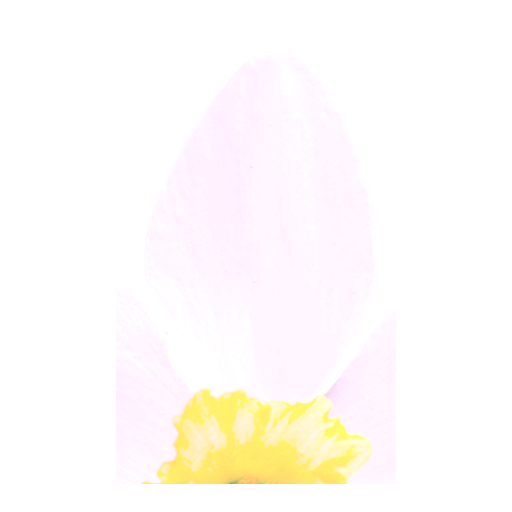
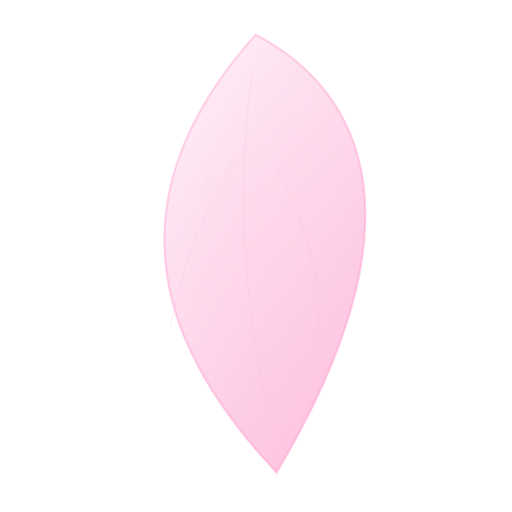
fix: refine seasonal vfx quality

diff --git a/components/HomeEffects.tsx b/components/HomeEffects.tsx
@@ -29,7 +29,7 @@ type SeasonalSpriteKey = 'petal' | 'firefly' | 'leafA' | 'leafB' | 'leafC' | 'sn
 type SeasonalSpriteMap = Partial<Record<SeasonalSpriteKey, HTMLImageElement>>;
 
 type SeasonalVfxParticle = {
-  kind: 'petal' | 'firefly' | 'leaf' | 'snow';
+  kind: 'petal' | 'firefly' | 'bug' | 'leaf' | 'snow';
   x: number;
   y: number;
   vx: number;
@@ -440,6 +440,19 @@ export function HomeEffects({ site, posts, notes, activeTrack }: HomeEffectsProp
         return;
       }
 
+      if (season === 'summer' && sceneMode === 'day') {
+        particle.kind = 'bug';
+        particle.sprite = 'firefly';
+        particle.size = randomBetween(5, 10) * particle.depth;
+        particle.x = randomBetween(width * 0.03, width * 0.98);
+        particle.y = initial ? randomBetween(height * 0.18, height * 0.8) : randomBetween(height * 0.22, height * 0.72);
+        particle.vx = randomBetween(-16, 18);
+        particle.vy = randomBetween(-10, 8);
+        particle.spin = randomBetween(-0.4, 0.4);
+        particle.alpha = randomBetween(0.18, 0.34);
+        return;
+      }
+
       if (season === 'autumn') {
         particle.kind = 'leaf';
         particle.sprite = chooseLeafSprite();
@@ -466,7 +479,7 @@ export function HomeEffects({ site, posts, notes, activeTrack }: HomeEffectsProp
 
     const targetCount = () => {
       if (season === 'summer' && !nightMode) {
-        return 0;
+        return Math.max(10, Math.round(intensity / 6));
       }
       if (season === 'spring' && nightMode) {
         return Math.max(14, Math.round(intensity / 4.4));
@@ -503,7 +516,7 @@ export function HomeEffects({ site, posts, notes, activeTrack }: HomeEffectsProp
       }
       particles.forEach((particle) => {
         if (
-          (season === 'summer' && !nightMode)
+          (season === 'summer' && !nightMode && particle.kind !== 'bug')
           || (season === 'spring' && nightMode && particle.kind !== 'firefly')
           || (season === 'spring' && !nightMode && particle.kind !== 'petal')
           || (season === 'autumn' && particle.kind !== 'leaf')
@@ -516,7 +529,7 @@ export function HomeEffects({ site, posts, notes, activeTrack }: HomeEffectsProp
 
     const drawSprite = (particle: SeasonalVfxParticle, now: number) => {
       const image = sprites[particle.sprite];
-      if (!image) {
+      if (!image && particle.kind !== 'bug') {
         return;
       }
 
@@ -532,6 +545,28 @@ export function HomeEffects({ site, posts, notes, activeTrack }: HomeEffectsProp
       context.globalAlpha = Math.max(0, Math.min(0.9, alpha));
       context.translate(x, y);
       context.rotate(particle.rotation + Math.sin(now * 0.001 + particle.phase) * 0.38);
+      if (particle.kind === 'bug') {
+        const wingBeat = 0.55 + Math.sin(now * 0.017 + particle.phase) * 0.25;
+        context.globalAlpha = Math.max(0.08, particle.alpha * (0.68 + wingBeat * 0.28));
+        context.globalCompositeOperation = 'screen';
+        context.shadowColor = 'rgba(255, 238, 166, 0.22)';
+        context.shadowBlur = size * 1.1;
+        context.fillStyle = 'rgba(31, 44, 30, 0.42)';
+        context.beginPath();
+        context.ellipse(0, 0, size * 0.18, size * 0.38, 0, 0, Math.PI * 2);
+        context.fill();
+        context.fillStyle = 'rgba(255, 245, 170, 0.34)';
+        context.beginPath();
+        context.ellipse(-size * 0.26, -size * 0.08, size * 0.34, size * 0.12 * wingBeat, -0.42, 0, Math.PI * 2);
+        context.ellipse(size * 0.26, -size * 0.08, size * 0.34, size * 0.12 * wingBeat, 0.42, 0, Math.PI * 2);
+        context.fill();
+        context.restore();
+        return;
+      }
+      if (!image) {
+        context.restore();
+        return;
+      }
       if (particle.kind === 'firefly') {
         context.shadowColor = 'rgba(255, 236, 116, 0.72)';
         context.shadowBlur = size * 1.6;
@@ -548,12 +583,16 @@ export function HomeEffects({ site, posts, notes, activeTrack }: HomeEffectsProp
     };
 
     const easeOut = (value: number) => 1 - Math.pow(1 - Math.max(0, Math.min(1, value)), 3);
+    const seededUnit = (seed: number) => {
+      const value = Math.sin(seed * 12.9898) * 43758.5453;
+      return value - Math.floor(value);
+    };
 
     const drawGrassBlade = (x: number, baseY: number, length: number, lean: number, color: string, alpha: number) => {
       context.save();
       context.globalAlpha = alpha;
       context.strokeStyle = color;
-      context.lineWidth = Math.max(0.7, length * 0.035);
+      context.lineWidth = Math.max(0.9, length * 0.045);
       context.lineCap = 'round';
       context.beginPath();
       context.moveTo(x, baseY);
@@ -571,30 +610,86 @@ export function HomeEffects({ site, posts, notes, activeTrack }: HomeEffectsProp
       context.fillRect(0, top, width, height - top);
     };
 
-    const drawSpringGround = (growth: number, now: number, summerFlowers = false) => {
+    const drawPetalAccumulation = (growth: number, now: number, windAway = 0) => {
+      const level = Math.max(0, growth * (1 - windAway));
+      const pileHeight = Math.min(38, Math.max(20, height * 0.036)) * level;
+      if (pileHeight < 2) {
+        return;
+      }
+      const top = height - pileHeight;
+      context.save();
+      const drift = windAway * width * 0.56;
+      const fade = 1 - windAway;
+      const gradient = context.createLinearGradient(0, top - 14, 0, height);
+      gradient.addColorStop(0, 'rgba(255, 214, 234, 0)');
+      gradient.addColorStop(0.42, `rgba(255, 188, 222, ${0.2 * fade})`);
+      gradient.addColorStop(1, `rgba(255, 229, 242, ${0.38 * fade})`);
+      context.fillStyle = gradient;
+      context.fillRect(0, top - 14, width, pileHeight + 18);
+
+      context.beginPath();
+      context.moveTo(0, height);
+      context.lineTo(0, top + Math.sin(now * 0.0005) * 1.4);
+      for (let x = 0; x <= width + 60; x += 60) {
+        const ridge = Math.sin(x * 0.018 + now * 0.00035) * 2.2 + Math.sin(x * 0.047) * 1.2;
+        context.quadraticCurveTo(x + 30, top - 3 + ridge, x + 60, top + ridge * 0.5);
+      }
+      context.lineTo(width, height);
+      context.closePath();
+      context.fillStyle = `rgba(255, 211, 232, ${0.16 * fade})`;
+      context.fill();
+
+      const petal = sprites.petal;
+      if (petal) {
+        context.filter = 'saturate(0.98) brightness(1.04)';
+        for (let index = 0; index < 86; index += 1) {
+          const frac = seededUnit(index + 9.7);
+          const lane = seededUnit(index + 31.4);
+          const x = ((index * 57 + frac * 170 + drift) % (width + 160)) - 80;
+          const wave = Math.sin(now * 0.0012 + index) * windAway * (16 + frac * 18);
+          const y = height - (Math.pow(lane, 1.45) * pileHeight * 0.92 + 2) - windAway * (10 + frac * 36);
+          const size = (6 + frac * 8) * (0.88 + level * 0.22);
+          context.save();
+          context.globalAlpha = (0.12 + frac * 0.16) * fade;
+          context.translate(x, y + wave);
+          context.rotate(frac * Math.PI * 2 + windAway * (1.2 + frac));
+          context.drawImage(petal, -size / 2, -size / 2, size, size);
+          context.restore();
+        }
+      }
+      context.restore();
+    };
+
+    const drawSpringGround = (growth: number, now: number, summerFlowers = false, dry = 0) => {
       const groundHeight = Math.min(46, Math.max(26, height * 0.042)) * growth;
       const top = height - groundHeight;
       context.save();
       drawSoftGroundGradient(top, [
         summerFlowers ? 'rgba(95, 178, 92, 0)' : 'rgba(126, 203, 122, 0)',
-        summerFlowers ? 'rgba(78, 158, 86, 0.16)' : 'rgba(93, 180, 96, 0.14)',
-        summerFlowers ? 'rgba(42, 112, 68, 0.34)' : 'rgba(54, 136, 74, 0.28)'
+        dry > 0.1 ? `rgba(159, 137, 64, ${0.16 * (1 - dry * 0.45)})` : (summerFlowers ? 'rgba(78, 158, 86, 0.24)' : 'rgba(93, 180, 96, 0.18)'),
+        dry > 0.1 ? `rgba(94, 83, 44, ${0.3 * (1 - dry * 0.55)})` : (summerFlowers ? 'rgba(42, 112, 68, 0.44)' : 'rgba(54, 136, 74, 0.34)')
       ]);
-      const step = Math.max(18, width / 96);
+      const haze = context.createLinearGradient(0, top - 12, 0, height);
+      haze.addColorStop(0, 'rgba(117, 205, 113, 0)');
+      haze.addColorStop(0.58, dry > 0.2 ? `rgba(168, 146, 62, ${0.08 * (1 - dry * 0.35)})` : (summerFlowers ? 'rgba(112, 214, 122, 0.12)' : 'rgba(142, 220, 132, 0.08)'));
+      haze.addColorStop(1, dry > 0.2 ? `rgba(105, 88, 36, ${0.16 * (1 - dry * 0.45)})` : (summerFlowers ? 'rgba(58, 144, 78, 0.22)' : 'rgba(79, 155, 84, 0.14)'));
+      context.fillStyle = haze;
+      context.fillRect(0, top - 12, width, groundHeight + 18);
+      const step = Math.max(12, width / 132);
       for (let x = -20; x < width + 20; x += step) {
-        const seed = Math.sin(x * 12.9898) * 43758.5453;
-        const frac = seed - Math.floor(seed);
+        const frac = seededUnit(x);
         const blade = (8 + frac * (summerFlowers ? 18 : 14)) * growth;
         const lean = Math.sin(now * 0.0011 + x * 0.02) * (summerFlowers ? 6 : 4);
-        const hue = summerFlowers ? 104 + frac * 36 : 96 + frac * 28;
-        drawGrassBlade(x, height + 3, blade, lean, `hsla(${hue}, 44%, ${summerFlowers ? 40 : 46}%, 0.44)`, 0.44);
-        if (summerFlowers && frac > 0.88) {
+        const hue = dry > 0 ? 82 - dry * 28 + frac * 18 : (summerFlowers ? 104 + frac * 36 : 96 + frac * 28);
+        const alpha = (summerFlowers ? 0.56 : 0.46) * (1 - dry * 0.66);
+        drawGrassBlade(x, height + 3, blade * (1 - dry * 0.22), lean, `hsla(${hue}, ${44 - dry * 16}%, ${summerFlowers ? 40 : 46}%, ${alpha})`, alpha);
+        if (summerFlowers && frac > 0.82 && dry < 0.9) {
           context.save();
-          context.globalAlpha = 0.26 * growth;
-          context.fillStyle = frac > 0.94 ? 'rgba(255, 214, 112, 0.58)' : 'rgba(255, 150, 205, 0.48)';
+          context.globalAlpha = (0.18 + frac * 0.18) * growth * (1 - dry);
+          context.fillStyle = frac > 0.93 ? 'rgba(255, 218, 116, 0.58)' : (frac > 0.88 ? 'rgba(164, 208, 255, 0.38)' : 'rgba(255, 154, 206, 0.44)');
           const flowerY = height - blade - 4;
           context.beginPath();
-          context.arc(x + lean, flowerY, 1.2 + frac * 1.4, 0, Math.PI * 2);
+          context.arc(x + lean, flowerY, 1 + frac * 1.6, 0, Math.PI * 2);
           context.fill();
           context.restore();
         }
@@ -603,20 +698,86 @@ export function HomeEffects({ site, posts, notes, activeTrack }: HomeEffectsProp
     };
 
     const drawLeafAccumulation = (growth: number) => {
-      const pileHeight = Math.min(44, Math.max(22, height * 0.04)) * growth;
+      const pileHeight = Math.min(48, Math.max(24, height * 0.046)) * growth;
       if (pileHeight < 4) {
         return;
       }
       context.save();
       drawSoftGroundGradient(height - pileHeight, [
         'rgba(224, 143, 45, 0)',
-        'rgba(186, 92, 38, 0.13)',
-        'rgba(82, 42, 24, 0.28)'
+        'rgba(190, 109, 36, 0.16)',
+        'rgba(88, 48, 22, 0.32)'
       ]);
       if (sprites.leafPile) {
-        context.globalAlpha = 0.18 * growth;
-        context.filter = nightMode ? 'saturate(0.56) brightness(0.46) blur(0.7px)' : 'saturate(0.72) brightness(0.66) blur(0.45px)';
-        context.drawImage(sprites.leafPile, 0, height - pileHeight * 1.12, width, pileHeight * 1.1);
+        context.globalAlpha = 0.2 * growth;
+        context.filter = nightMode ? 'saturate(0.62) brightness(0.5) blur(0.45px)' : 'saturate(0.84) brightness(0.76) blur(0.28px)';
+        context.drawImage(sprites.leafPile, 0, height - pileHeight * 1.08, width, pileHeight * 1.04);
+      }
+      const leafSprites: SeasonalSpriteKey[] = ['leafA', 'leafB', 'leafC'];
+      for (let index = 0; index < 64; index += 1) {
+        const frac = seededUnit(index + 17.2);
+        const sprite = sprites[leafSprites[index % leafSprites.length]];
+        if (!sprite) {
+          continue;
+        }
+        const x = (index * 71 + frac * 160) % (width + 120) - 60;
+        const y = height - Math.pow(seededUnit(index + 82.6), 1.25) * pileHeight * 0.88 - 3;
+        const size = 9 + frac * 12;
+        context.save();
+        context.globalAlpha = (0.1 + frac * 0.14) * growth;
+        context.filter = nightMode ? 'saturate(0.58) brightness(0.52)' : 'saturate(0.86) brightness(0.84)';
+        context.translate(x, y);
+        context.rotate(frac * Math.PI * 2);
+        context.drawImage(sprite, -size / 2, -size / 2, size, size);
+        context.restore();
+      }
+      context.restore();
+    };
+
+    const drawSweptPetals = (now: number, progress: number) => {
+      const petal = sprites.petal;
+      if (!petal) {
+        return;
+      }
+      const pulse = Math.sin(progress * Math.PI);
+      context.save();
+      context.filter = 'saturate(1.04) brightness(1.06)';
+      for (let index = 0; index < 42; index += 1) {
+        const frac = seededUnit(index + 44.8);
+        const y = height * (0.38 + seededUnit(index + 12.1) * 0.5) - progress * height * (0.08 + frac * 0.16);
+        const x = -80 + progress * (width + 190) + Math.sin(now * 0.002 + index) * (28 + frac * 42) - frac * width * 0.28;
+        const size = 7 + frac * 10;
+        context.save();
+        context.globalAlpha = pulse * (0.08 + frac * 0.18);
+        context.translate(x, y);
+        context.rotate(now * 0.0018 + frac * Math.PI * 4);
+        context.drawImage(petal, -size / 2, -size / 2, size, size);
+        context.restore();
+      }
+      context.restore();
+    };
+
+    const drawTransitionLeaves = (now: number, progress: number) => {
+      const leafSprites: SeasonalSpriteKey[] = ['leafA', 'leafB', 'leafC'];
+      const pulse = easeOut(progress);
+      context.save();
+      for (let index = 0; index < 48; index += 1) {
+        const sprite = sprites[leafSprites[index % leafSprites.length]];
+        if (!sprite) {
+          continue;
+        }
+        const frac = seededUnit(index + 72.3);
+        const start = seededUnit(index + 22.6) * width;
+        const x = start + Math.sin(now * 0.001 + index) * 34 + progress * width * (0.12 + frac * 0.18);
+        const y = -40 + progress * (height * 0.78) + seededUnit(index + 5.8) * height * 0.38;
+        const size = 13 + frac * 16;
+        context.save();
+        context.globalAlpha = Math.min(0.62, pulse * (0.18 + frac * 0.36));
+        context.filter = nightMode ? 'saturate(0.58) brightness(0.5)' : 'saturate(0.92) brightness(0.9)';
+        context.translate(x, y);
+        context.rotate(now * 0.0009 + frac * Math.PI * 3);
+        context.drawImage(sprite, -size / 2, -size / 2, size, size);
+        context.restore();
       }
       context.restore();
     };
@@ -660,9 +821,12 @@ export function HomeEffects({ site, posts, notes, activeTrack }: HomeEffectsProp
       const transitionGrowth = isSeasonTransitioning ? easeOut(transitionProgress) : growth;
 
       if (season === 'spring') {
-        drawSpringGround(growth, now);
+        const windAway = isSeasonTransitioning && nextSeason === 'summer' ? transitionGrowth : 0;
+        drawSpringGround(growth * 0.75, now, false, 0);
+        drawPetalAccumulation(growth, now, windAway);
       } else if (season === 'summer') {
-        drawSpringGround(growth, now, true);
+        const dry = isSeasonTransitioning && nextSeason === 'autumn' ? transitionGrowth : 0;
+        drawSpringGround(growth, now, true, dry);
       } else if (isAutumn) {
         drawLeafAccumulation(growth);
       } else if (isWinter) {
@@ -671,10 +835,16 @@ export function HomeEffects({ site, posts, notes, activeTrack }: HomeEffectsProp
 
       if (isSeasonTransitioning && nextSeason === 'spring') {
         drawSnowAccumulation(1, transitionGrowth);
-        drawSpringGround(transitionGrowth, now);
+        drawSpringGround(transitionGrowth * 0.72, now, false, 0);
+        drawPetalAccumulation(transitionGrowth, now);
       } else if (isSeasonTransitioning && nextSeason === 'summer') {
-        drawSpringGround(transitionGrowth, now, true);
+        drawSweptPetals(now, transitionGrowth);
+        drawSpringGround(transitionGrowth, now, true, 0);
       } else if (isSeasonTransitioning && nextSeason === 'autumn') {
+        if (previousSeason === 'summer') {
+          drawSpringGround(1 - transitionGrowth * 0.28, now, true, transitionGrowth);
+        }
+        drawTransitionLeaves(now, transitionGrowth);
         drawLeafAccumulation(transitionGrowth);
       } else if (isSeasonTransitioning && nextSeason === 'winter') {
         drawSnowAccumulation(transitionGrowth);
@@ -797,13 +967,15 @@ export function HomeEffects({ site, posts, notes, activeTrack }: HomeEffectsProp
       drawSummer(now, transitionProgress);
 
       particles.forEach((particle) => {
-        if (particle.kind === 'firefly') {
+        if (particle.kind === 'firefly' || particle.kind === 'bug') {
           particle.x += (particle.vx + Math.sin(now * 0.001 + particle.phase) * 6) * deltaSeconds;
           particle.y += (particle.vy + Math.cos(now * 0.0011 + particle.phase) * 5) * deltaSeconds;
           if (particle.x < -40) particle.x = width + 40;
           if (particle.x > width + 40) particle.x = -40;
-          if (particle.y < height * 0.12) particle.y = height * 0.82;
-          if (particle.y > height * 0.86) particle.y = height * 0.18;
+          const topBound = particle.kind === 'bug' ? height * 0.2 : height * 0.12;
+          const bottomBound = particle.kind === 'bug' ? height * 0.76 : height * 0.86;
+          if (particle.y < topBound) particle.y = bottomBound;
+          if (particle.y > bottomBound) particle.y = topBound;
         } else {
           particle.x += (particle.vx + Math.sin(now * 0.0012 + particle.phase) * 18) * deltaSeconds;
           particle.y += particle.vy * deltaSeconds;

diff --git a/tests/frontend-source.test.js b/tests/frontend-source.test.js
@@ -571,7 +571,7 @@ describe('target-inspired homepage portal', () => {
     assert.match(component, /xh-danmaku-layer/);
     assert.match(component, /xh-season-vfx-canvas/);
     assert.match(component, /SeasonalVfxParticle/);
-    assert.match(component, /kind: 'petal' \| 'firefly' \| 'leaf' \| 'snow'/);
+    assert.match(component, /kind: 'petal' \| 'firefly' \| 'bug' \| 'leaf' \| 'snow'/);
     assert.match(component, /\/assets\/seasonal\/spring-petal-source\.png/);
     assert.match(component, /\/assets\/seasonal\/spring-firefly\.png/);
     assert.match(component, /\/assets\/seasonal\/autumn-leaf-pile\.png/);
@@ -586,8 +586,16 @@ describe('target-inspired homepage portal', () => {
     assert.match(component, /drawSummer\(now, transitionProgress\)/);
     assert.match(component, /drawGround\(now, transitionProgress\)/);
     assert.match(component, /drawTransition\(now, transitionProgress\)/);
+    assert.match(component, /drawPetalAccumulation\(growth, now, windAway\)/);
+    assert.match(component, /particle\.kind = 'bug'/);
+    assert.match(component, /const wingBeat = 0\.55 \+ Math\.sin\(now \* 0\.017 \+ particle\.phase\) \* 0\.25/);
+    assert.match(component, /drawSpringGround\(growth \* 0\.75, now, false, 0\)/);
+    assert.match(component, /drawSweptPetals\(now, transitionGrowth\)/);
+    assert.match(component, /drawTransitionLeaves\(now, transitionGrowth\)/);
+    assert.match(component, /drawSpringGround\(1 - transitionGrowth \* 0\.28, now, true, transitionGrowth\)/);
+    assert.match(component, /drawLeafAccumulation\(transitionGrowth\)/);
     assert.match(component, /xh-heat-distortion/);
-    assert.match(component, /drawSpringGround\(growth, now, true\)/);
+    assert.match(component, /drawSpringGround\(growth, now, true, dry\)/);
     assert.match(component, /const growth = easeOut\(\(now - effectStartedAt\) \/ 16000\)/);
     assert.match(component, /const lane = index \/ 12/);
     assert.match(homeCss, /Summer heat distortion/);